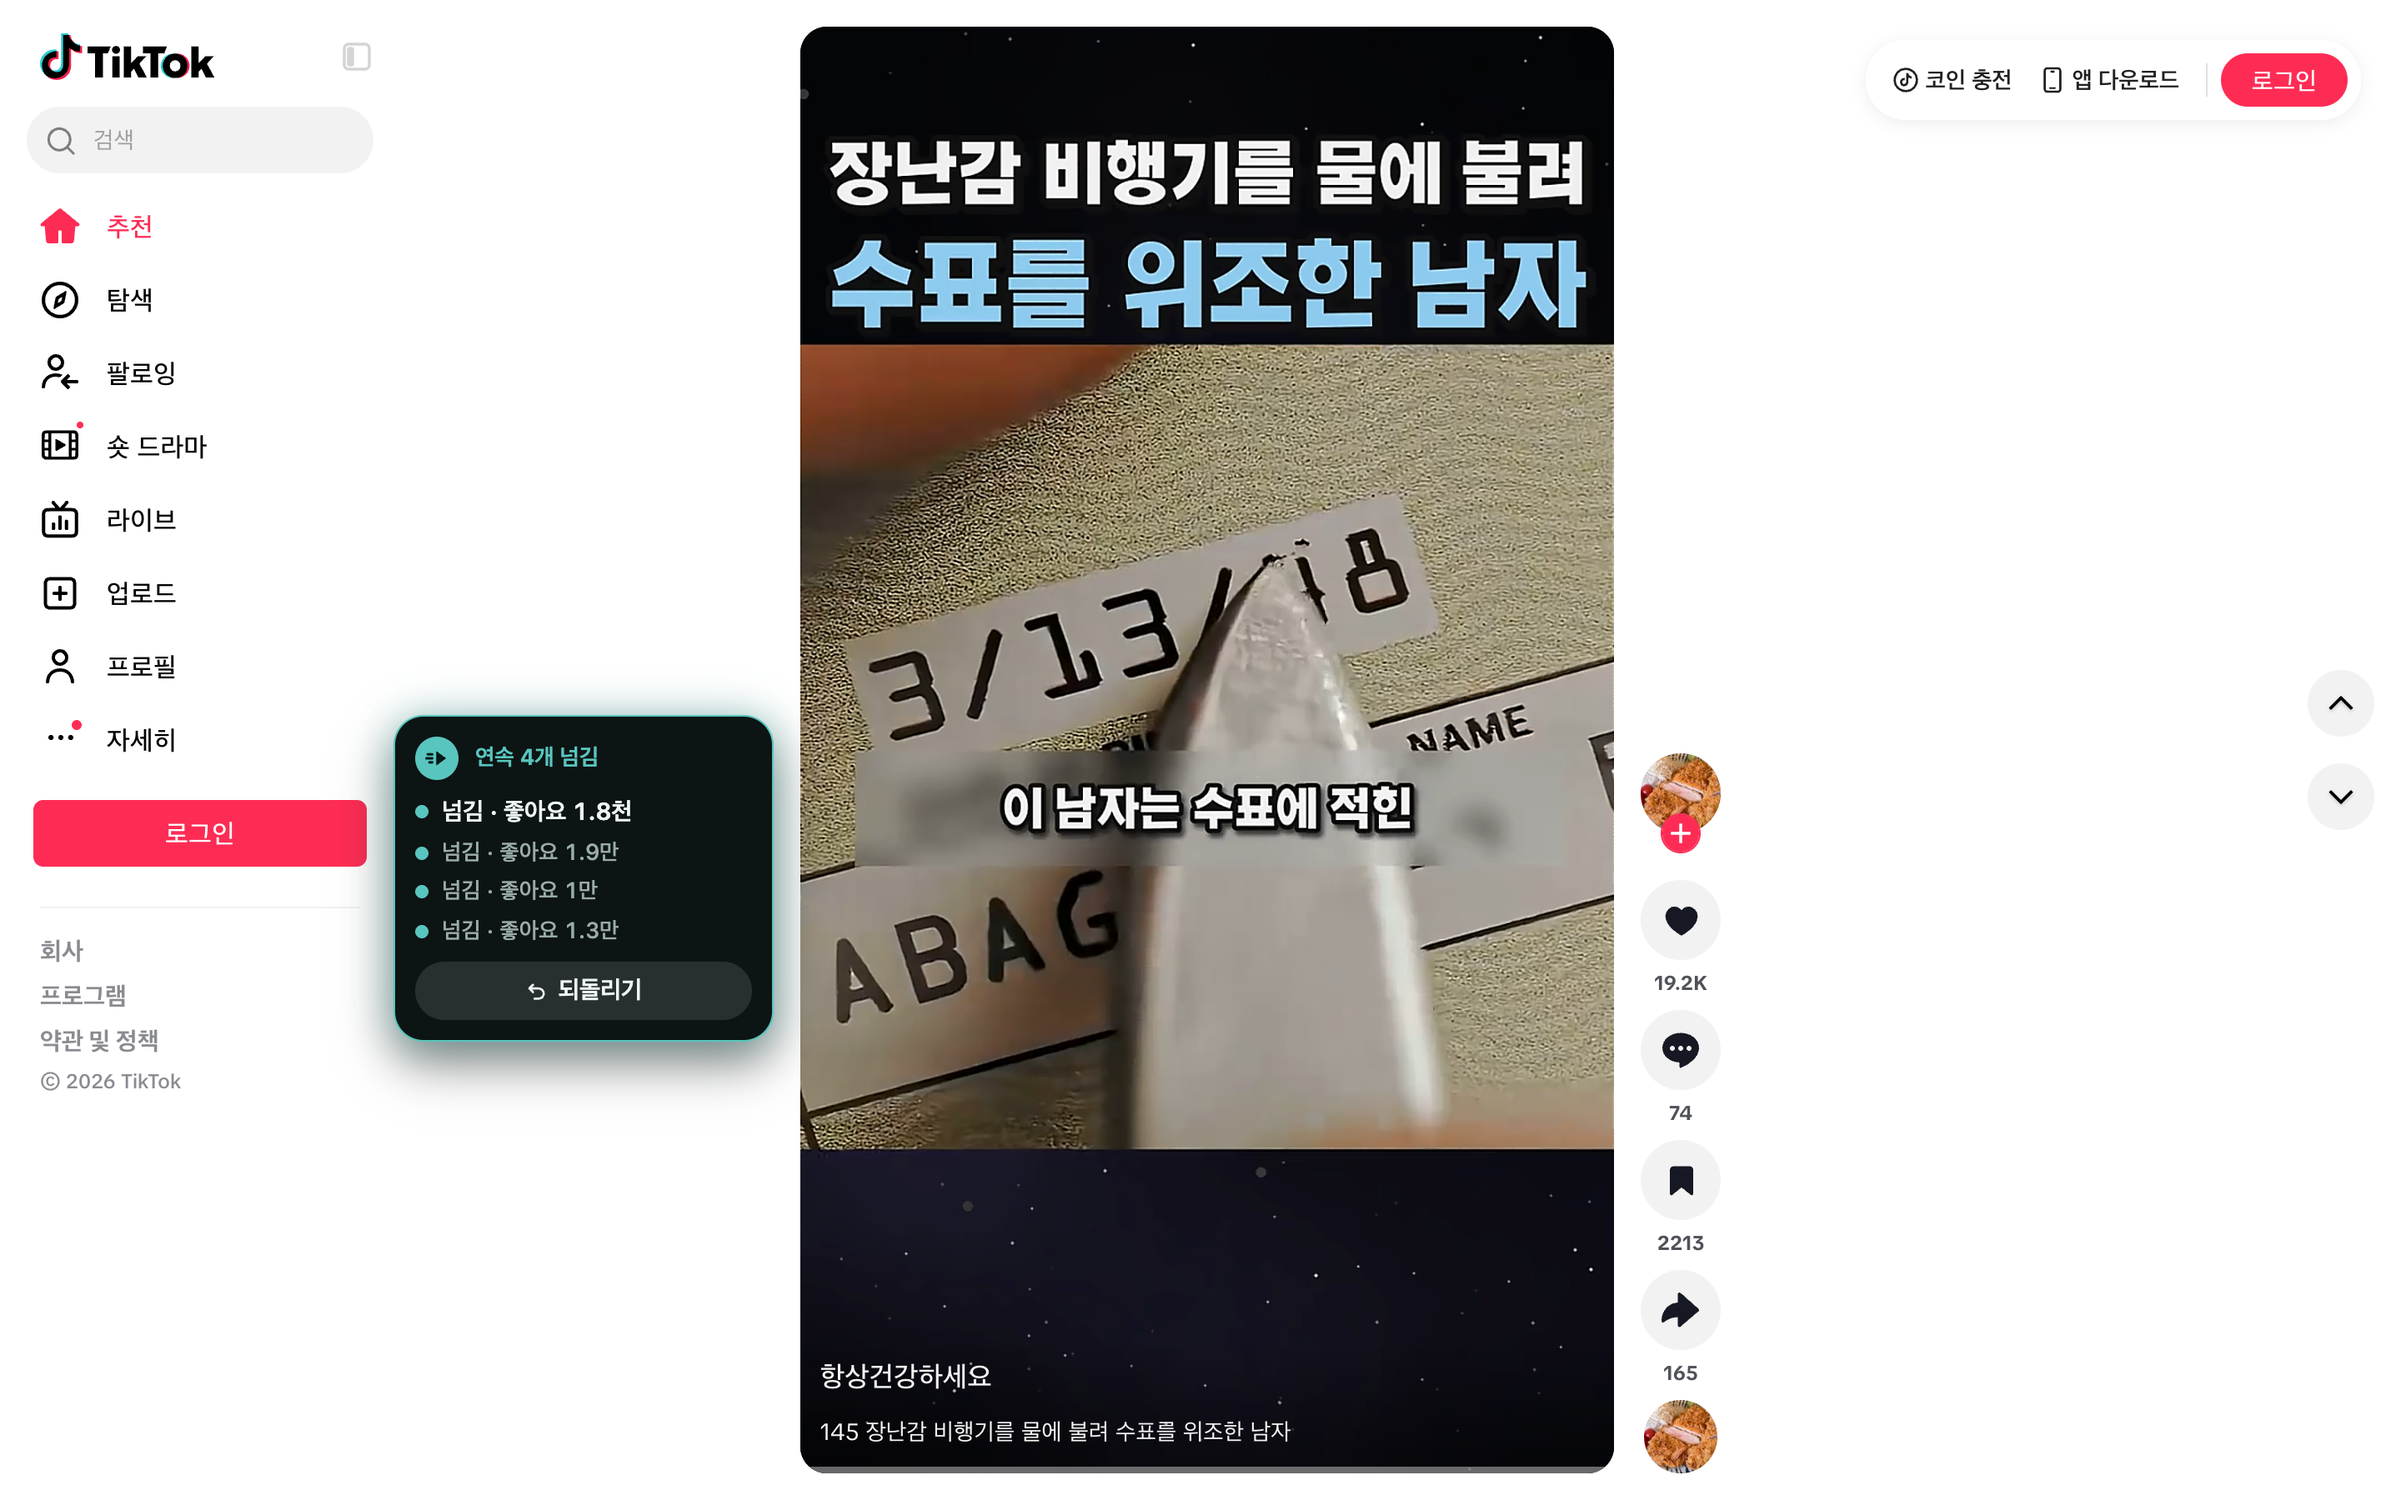
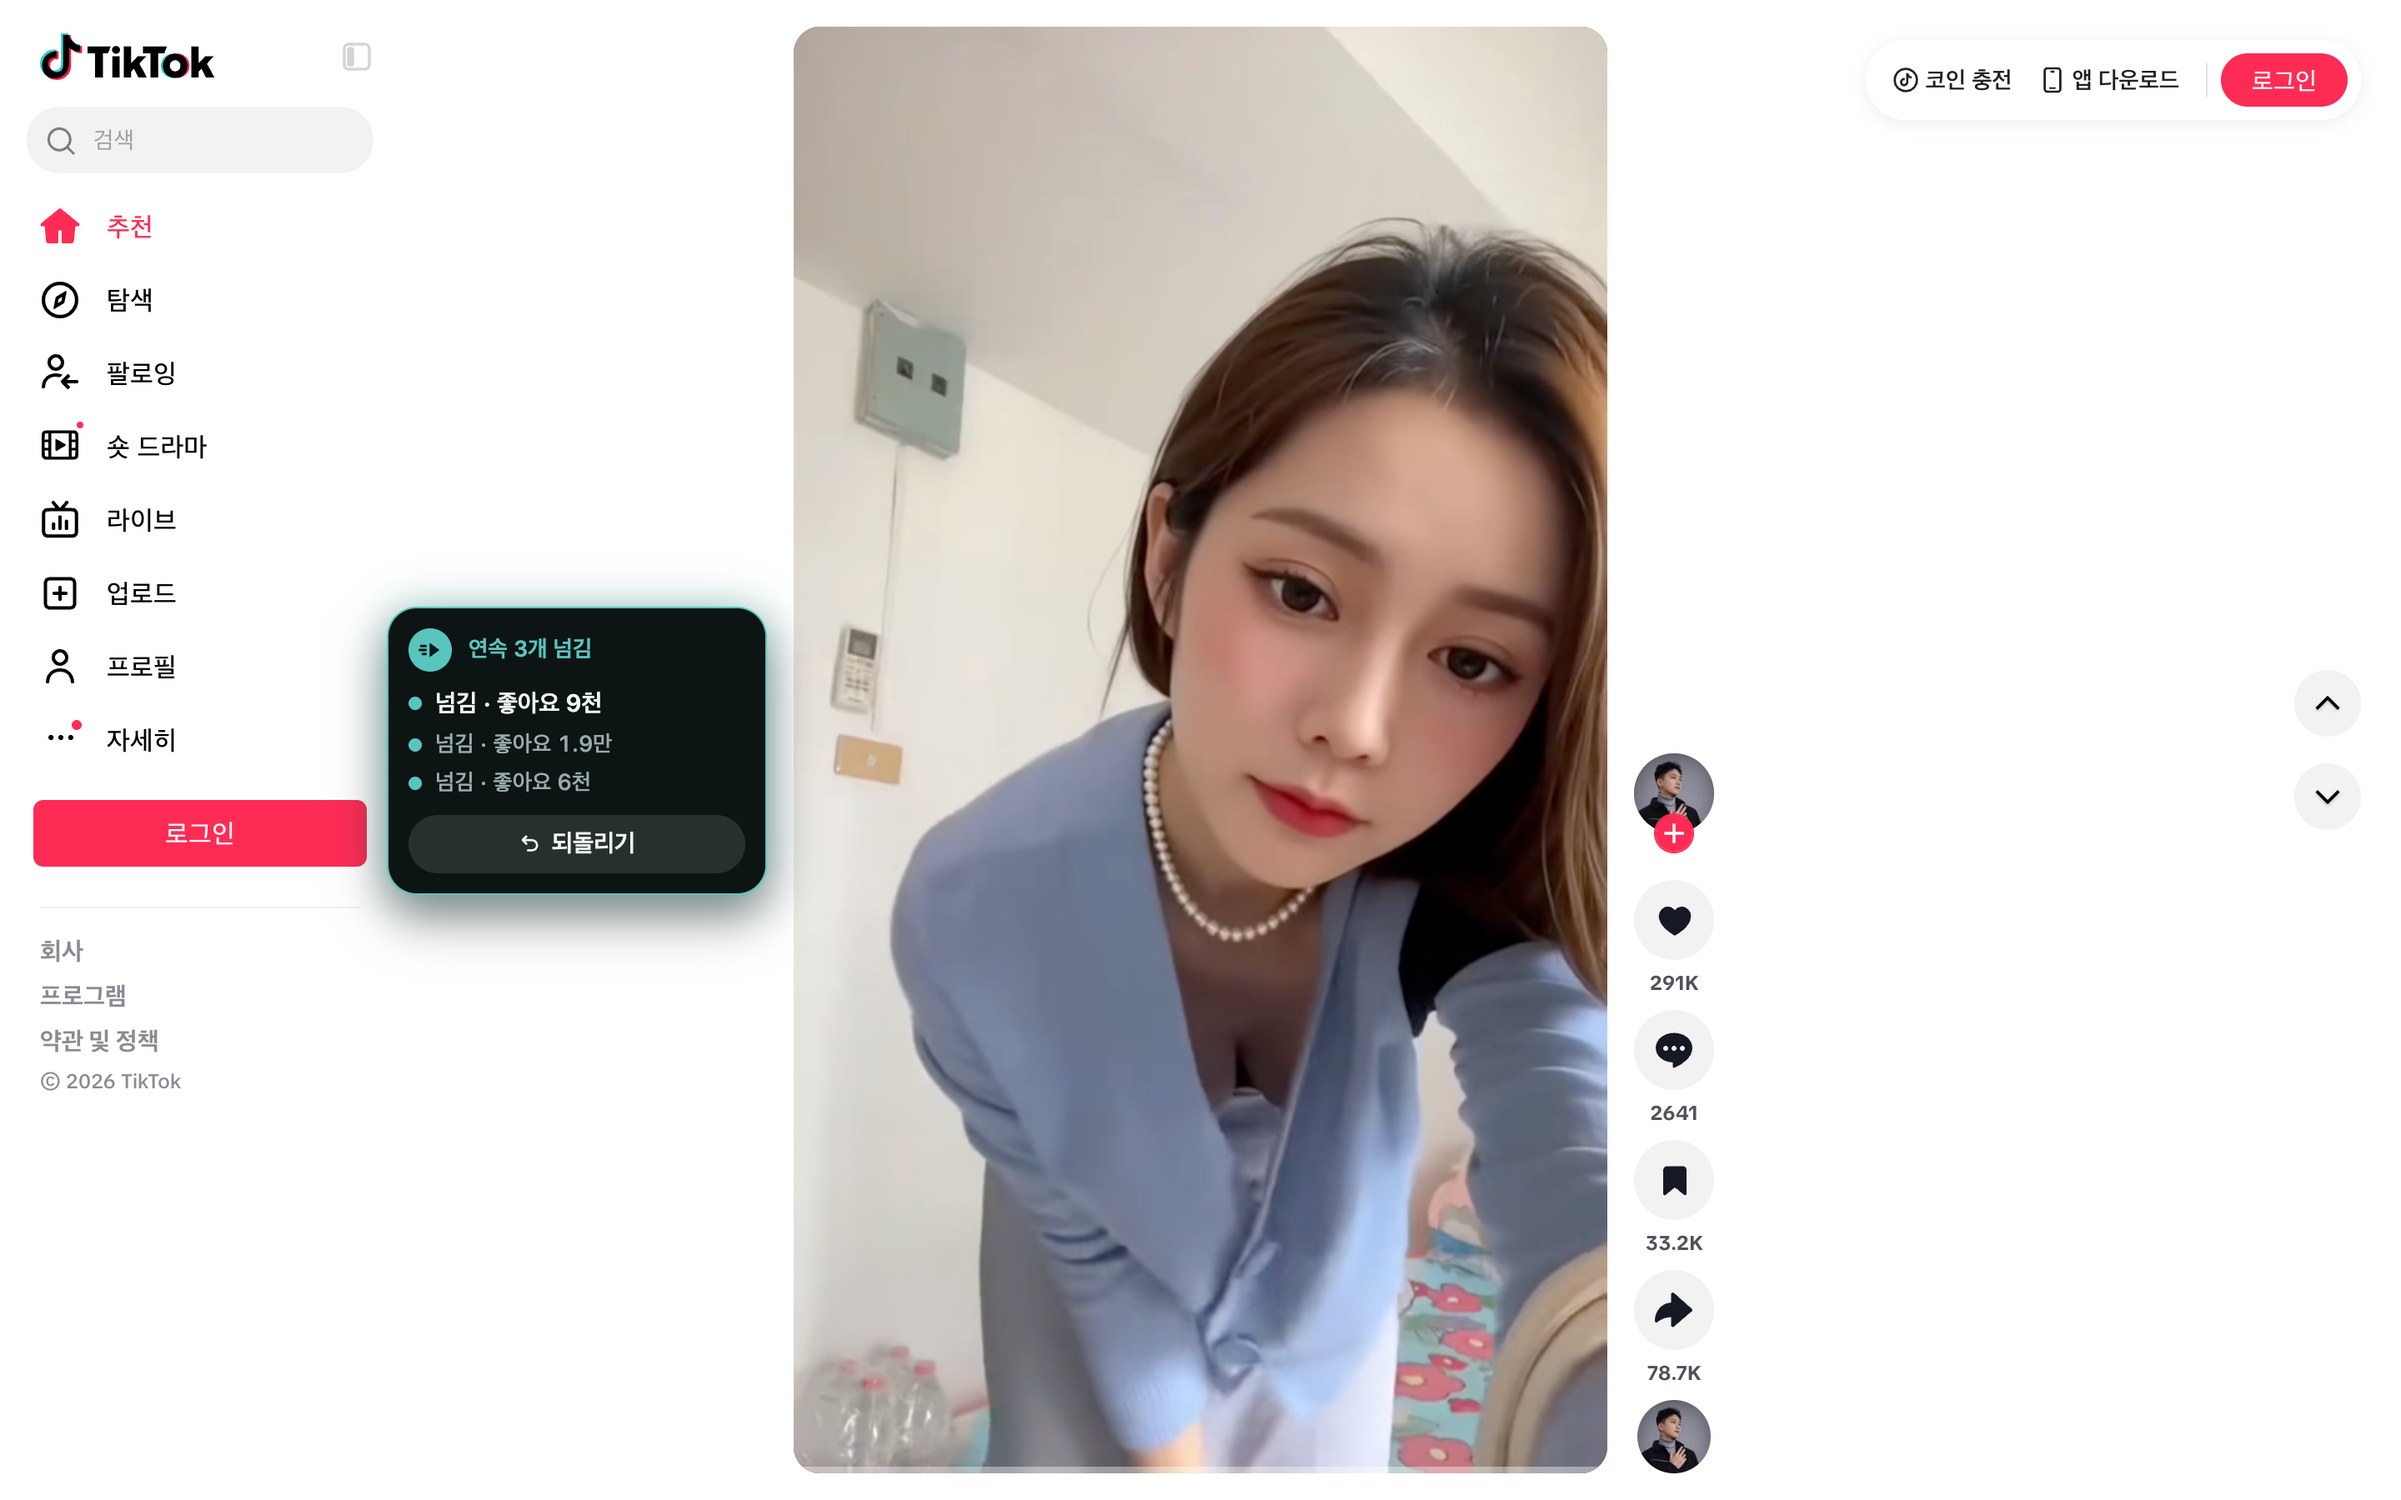
Centre the side chip on the window's height, not on the video that TikTok is still scrolling

diff --git a/qa/screenshots/review-070/tt-run/chip.html b/qa/screenshots/review-070/tt-run/chip.html
@@ -30,4 +30,4 @@ button.primary:hover { background: #6AD6CF; }
 @keyframes in { from { opacity: 0; transform: scale(0.96); } to { opacity: 1; transform: none; } }
 @keyframes ping { from { inset: -1.5px; opacity: 0.85; } to { inset: -11px; opacity: 0; } }
 @keyframes out { from { opacity: 1; } to { opacity: 0; } }
-@media (prefers-reduced-motion: reduce) { .chip, .chip.leaving, .chip::after { animation-duration: 1ms; } }</style><div><div class="chip" data-mode="skipped" role="status"><div class="head"><span class="dot"><svg viewBox="0 0 16 16" width="16" height="16" fill="none" stroke="currentColor" stroke-width="1.5" stroke-linecap="round" stroke-linejoin="round" aria-hidden="true"><path d="M2.6 5.6h2.6"></path><path d="M1.8 8h3.4"></path><path d="M3.6 10.4h1.6"></path><path d="M7.6 3.6 13.6 8l-6 4.4Z" fill="currentColor" stroke="none"></path></svg></span><span class="label run">연속 4개 넘김</span><span class="count">×4</span></div><div class="rows"><span class="r">넘김 · 좋아요 1.8천</span><span class="r">넘김 · 좋아요 1.9만</span><span class="r">넘김 · 좋아요 1만</span><span class="r">넘김 · 좋아요 1.3만</span></div><button type="button" aria-label="되돌리기"><svg viewBox="0 0 16 16" width="14" height="14" fill="none" stroke="currentColor" stroke-width="1.5" stroke-linecap="round" stroke-linejoin="round" aria-hidden="true"><path d="M5.4 3.2 2.8 5.8l2.6 2.6"></path><path d="M3 5.8h6.2a3.5 3.5 0 0 1 0 7H6.4"></path></svg><span class="txt">되돌리기</span></button></div></div>
+@media (prefers-reduced-motion: reduce) { .chip, .chip.leaving, .chip::after { animation-duration: 1ms; } }</style><div><div class="chip" data-mode="skipped" role="status"><div class="head"><span class="dot"><svg viewBox="0 0 16 16" width="16" height="16" fill="none" stroke="currentColor" stroke-width="1.5" stroke-linecap="round" stroke-linejoin="round" aria-hidden="true"><path d="M2.6 5.6h2.6"></path><path d="M1.8 8h3.4"></path><path d="M3.6 10.4h1.6"></path><path d="M7.6 3.6 13.6 8l-6 4.4Z" fill="currentColor" stroke="none"></path></svg></span><span class="label run">연속 3개 넘김</span><span class="count">×3</span></div><div class="rows"><span class="r">넘김 · 좋아요 9천</span><span class="r">넘김 · 좋아요 1.9만</span><span class="r">넘김 · 좋아요 6천</span></div><button type="button" aria-label="되돌리기"><svg viewBox="0 0 16 16" width="14" height="14" fill="none" stroke="currentColor" stroke-width="1.5" stroke-linecap="round" stroke-linejoin="round" aria-hidden="true"><path d="M5.4 3.2 2.8 5.8l2.6 2.6"></path><path d="M3 5.8h6.2a3.5 3.5 0 0 1 0 7H6.4"></path></svg><span class="txt">되돌리기</span></button></div></div>

diff --git a/e2e/skip.spec.ts b/e2e/skip.spec.ts
@@ -59,11 +59,11 @@ test("the skip chip sits beside the video by default, lists a row of skips, and 
     return (await page.locator("#scrollplus-chip-host").boundingBox())!;
   }
 
-  // The default is beside the video: its right edge 16 px from the video's left edge, and the middle of the visible video (40 to 580 px,
-  // so 310) less 20 px. None of the video is covered.
+  // The default is beside the video: its right edge 16 px from the video's left edge, and its middle at the middle of the window (360 px).
+  // None of the video is covered.
   const side = await chipBox();
   expect(side.x + side.width).toBeCloseTo(video.x - 16, 0);
-  expect(side.y + side.height / 2).toBeCloseTo(290, 0);
+  expect(side.y + side.height / 2).toBeCloseTo(360, 0);
   expect(side.width).toBeCloseTo(228, 0);
   expect(side.x + side.width).toBeLessThanOrEqual(video.x);
 

diff --git a/src/content/chip.ts b/src/content/chip.ts
@@ -148,9 +148,9 @@ export function mountChip(actions: { undo: () => void; keepGoing: () => void; lo
     const chip = chipNode();
     if (!host || !chip) return false;
     const height = window.innerHeight;
-    const visibleTop = Math.max(box.top, 0);
-    const visibleBottom = Math.min(box.bottom, height);
-    const middle = (visibleTop + visibleBottom) / 2 - 20;
+    // The middle of the window. A feed such as TikTok's scrolls to the next video while the chip is up, so the video's own box is moving
+    // and its middle is not where it will rest. The video is as tall as the window or nearly, so the window's middle is its middle.
+    const middle = height / 2;
     const tries: Array<{ compact: boolean; right: boolean }> = [
       { compact: false, right: false },
       { compact: false, right: true },

diff --git a/SPEC.md b/SPEC.md
@@ -169,7 +169,7 @@ A session keep-set is memory only, shared across reloads and tabs by platform. U
 The chip is the only thing ScrollPlus adds to a site. It must be seen on any video, bright or dark, and must not sit on what a person reads.
 
 - Position, from the chipPosition setting: side (default), top, middle or lower. Beside the video, none of the video is covered. The other three put the chip over the video, centred on it, as 0.5.0 did.
-- Beside the video. The chip is a card 228 px wide whose right edge is 16 px from the left edge of the video that is on screen, and it is centred on that video's visible part, less 20 px, and never higher than 72 px or lower than 24 px above the window's bottom. Where the left side has no room, or has something a person reads or presses (a link, a button, an image, an input, a video, found by looking at nine points of the card's rectangle), it goes to the right side of the video, after the column of buttons the sites put there (78 px). Where neither side has room for a card, a skip is shown as a pill 52 px wide: the mark, how many in a row, and Undo as a round button, on the left and then on the right. The pause chip needs its two buttons and has no pill: where neither side has room for it, it goes over the video, centred, as top does. When the video is not on screen, or no place beside it is free, the chip is placed as top.
+- Beside the video. The chip is a card 228 px wide whose right edge is 16 px from the left edge of the video that is on screen, and its middle is the middle of the window, never higher than 72 px or lower than 24 px above the window's bottom. The window's middle is used and not the video's, because TikTok's video is still scrolling when the chip appears. Where the left side has no room, or has something a person reads or presses (a link, a button, an image, an input, a video, found by looking at nine points of the card's rectangle), it goes to the right side of the video, after the column of buttons the sites put there (78 px). Where neither side has room for a card, a skip is shown as a pill 52 px wide: the mark, how many in a row, and Undo as a round button, on the left and then on the right. The pause chip needs its two buttons and has no pill: where neither side has room for it, it goes over the video, centred, as top does. When the video is not on screen, or no place beside it is free, the chip is placed as top.
 - Over the video (top, middle, lower). Centred on the video that is on screen, and on the window when there is none. Top is 18% of the window's height down, at most 140 px: below the player controls of YouTube Shorts and clear of the caption. Middle is the centre of the window. Lower is 28% of the window's height up from the bottom, at most 220 px: above the caption on all three sites, though it can still meet a video's own subtitles. The height is measured from the window and not from the video, because TikTok's video is still scrolling when the chip appears while its column is not. The chip stays 8 px inside the window's edges. When no video is found it is centred on the column seen last, and on the window when none was seen yet. The column is that of the video with the most of itself inside the window.
 - The chip is placed again when its words change, 250 ms after it appears (a feed that swaps its video players may have none for a moment) and when the window is resized.
 - Bottom, 32 px from the window's edge as in 0.4.4, is gone: it sat on the caption, and on a dark video the dark chip could not be told from the video.

diff --git a/CHANGELOG.md b/CHANGELOG.md
@@ -2,7 +2,7 @@
 
 ## 0.7.0 – 2026-10-13
 
-- The skip chip no longer covers the video. It sits beside it: a card 228 px wide, its right edge 16 px from the video's left edge, centred on the video. If the left side is taken by something on the site or has no room it goes to the right of the video, after the site's buttons. Where there is room for neither a card, a skip shows as a small pill with the mark, how many in a row and Undo, and a pause chip, which needs its two buttons, goes over the video as before.
+- The skip chip no longer covers the video. It sits beside it: a card 228 px wide, its right edge 16 px from the video's left edge, centred on the window's height. If the left side is taken by something on the site or has no room it goes to the right of the video, after the site's buttons. Where there is room for neither a card, a skip shows as a small pill with the mark, how many in a row and Undo, and a pause chip, which needs its two buttons, goes over the video as before.
 - A row of skips is one chip. When several videos are skipped one after another, each adds a line to the same chip: the head says how many ("3 skipped in a row"), and each reason is listed under it, newest first, at most four. One skip looks as it did. Undo still moves back one video.
 - Settings, Skip chip position, has a new first choice, Beside, which is the default. Top, Middle and Lower are still there and put the chip over the video. An install that had the chip at the top, which was the default of 0.5.0 and 0.6.0, is moved to Beside once. A middle or lower place that you chose stays.
 - Skipping, settings, storage keys and permissions are otherwise unchanged. The settings schema marker is 3.

diff --git a/qa/chip-beside.md b/qa/chip-beside.md
@@ -4,7 +4,7 @@ The chip used to sit on the video, at the top. That covered what a person was lo
 
 ## What it does
 
-- A card 228 px wide. Its right edge is 16 px from the left edge of the video on screen. It is centred on the visible part of the video, less 20 px, so it sits a little above the middle.
+- A card 228 px wide. Its right edge is 16 px from the left edge of the video on screen. Its middle is the middle of the window. That is used and not the video's own middle, because TikTok's video is still scrolling when the chip appears and its box is moving.
 - If the left side has no room, or has something a person reads or presses under the card (a link, a button, an image, an input, a video), it goes to the right of the video, after the column of buttons the sites put there (78 px).
 - If neither side has room for a card, a skip shows as a pill 52 px wide: the mark, how many in a row, and Undo as a round button. A pause chip needs its two buttons and has no pill. It goes over the video, centred, as the old top did.
 - The old places, top, middle and lower, are still in Settings. They put the chip over the video, as before.
